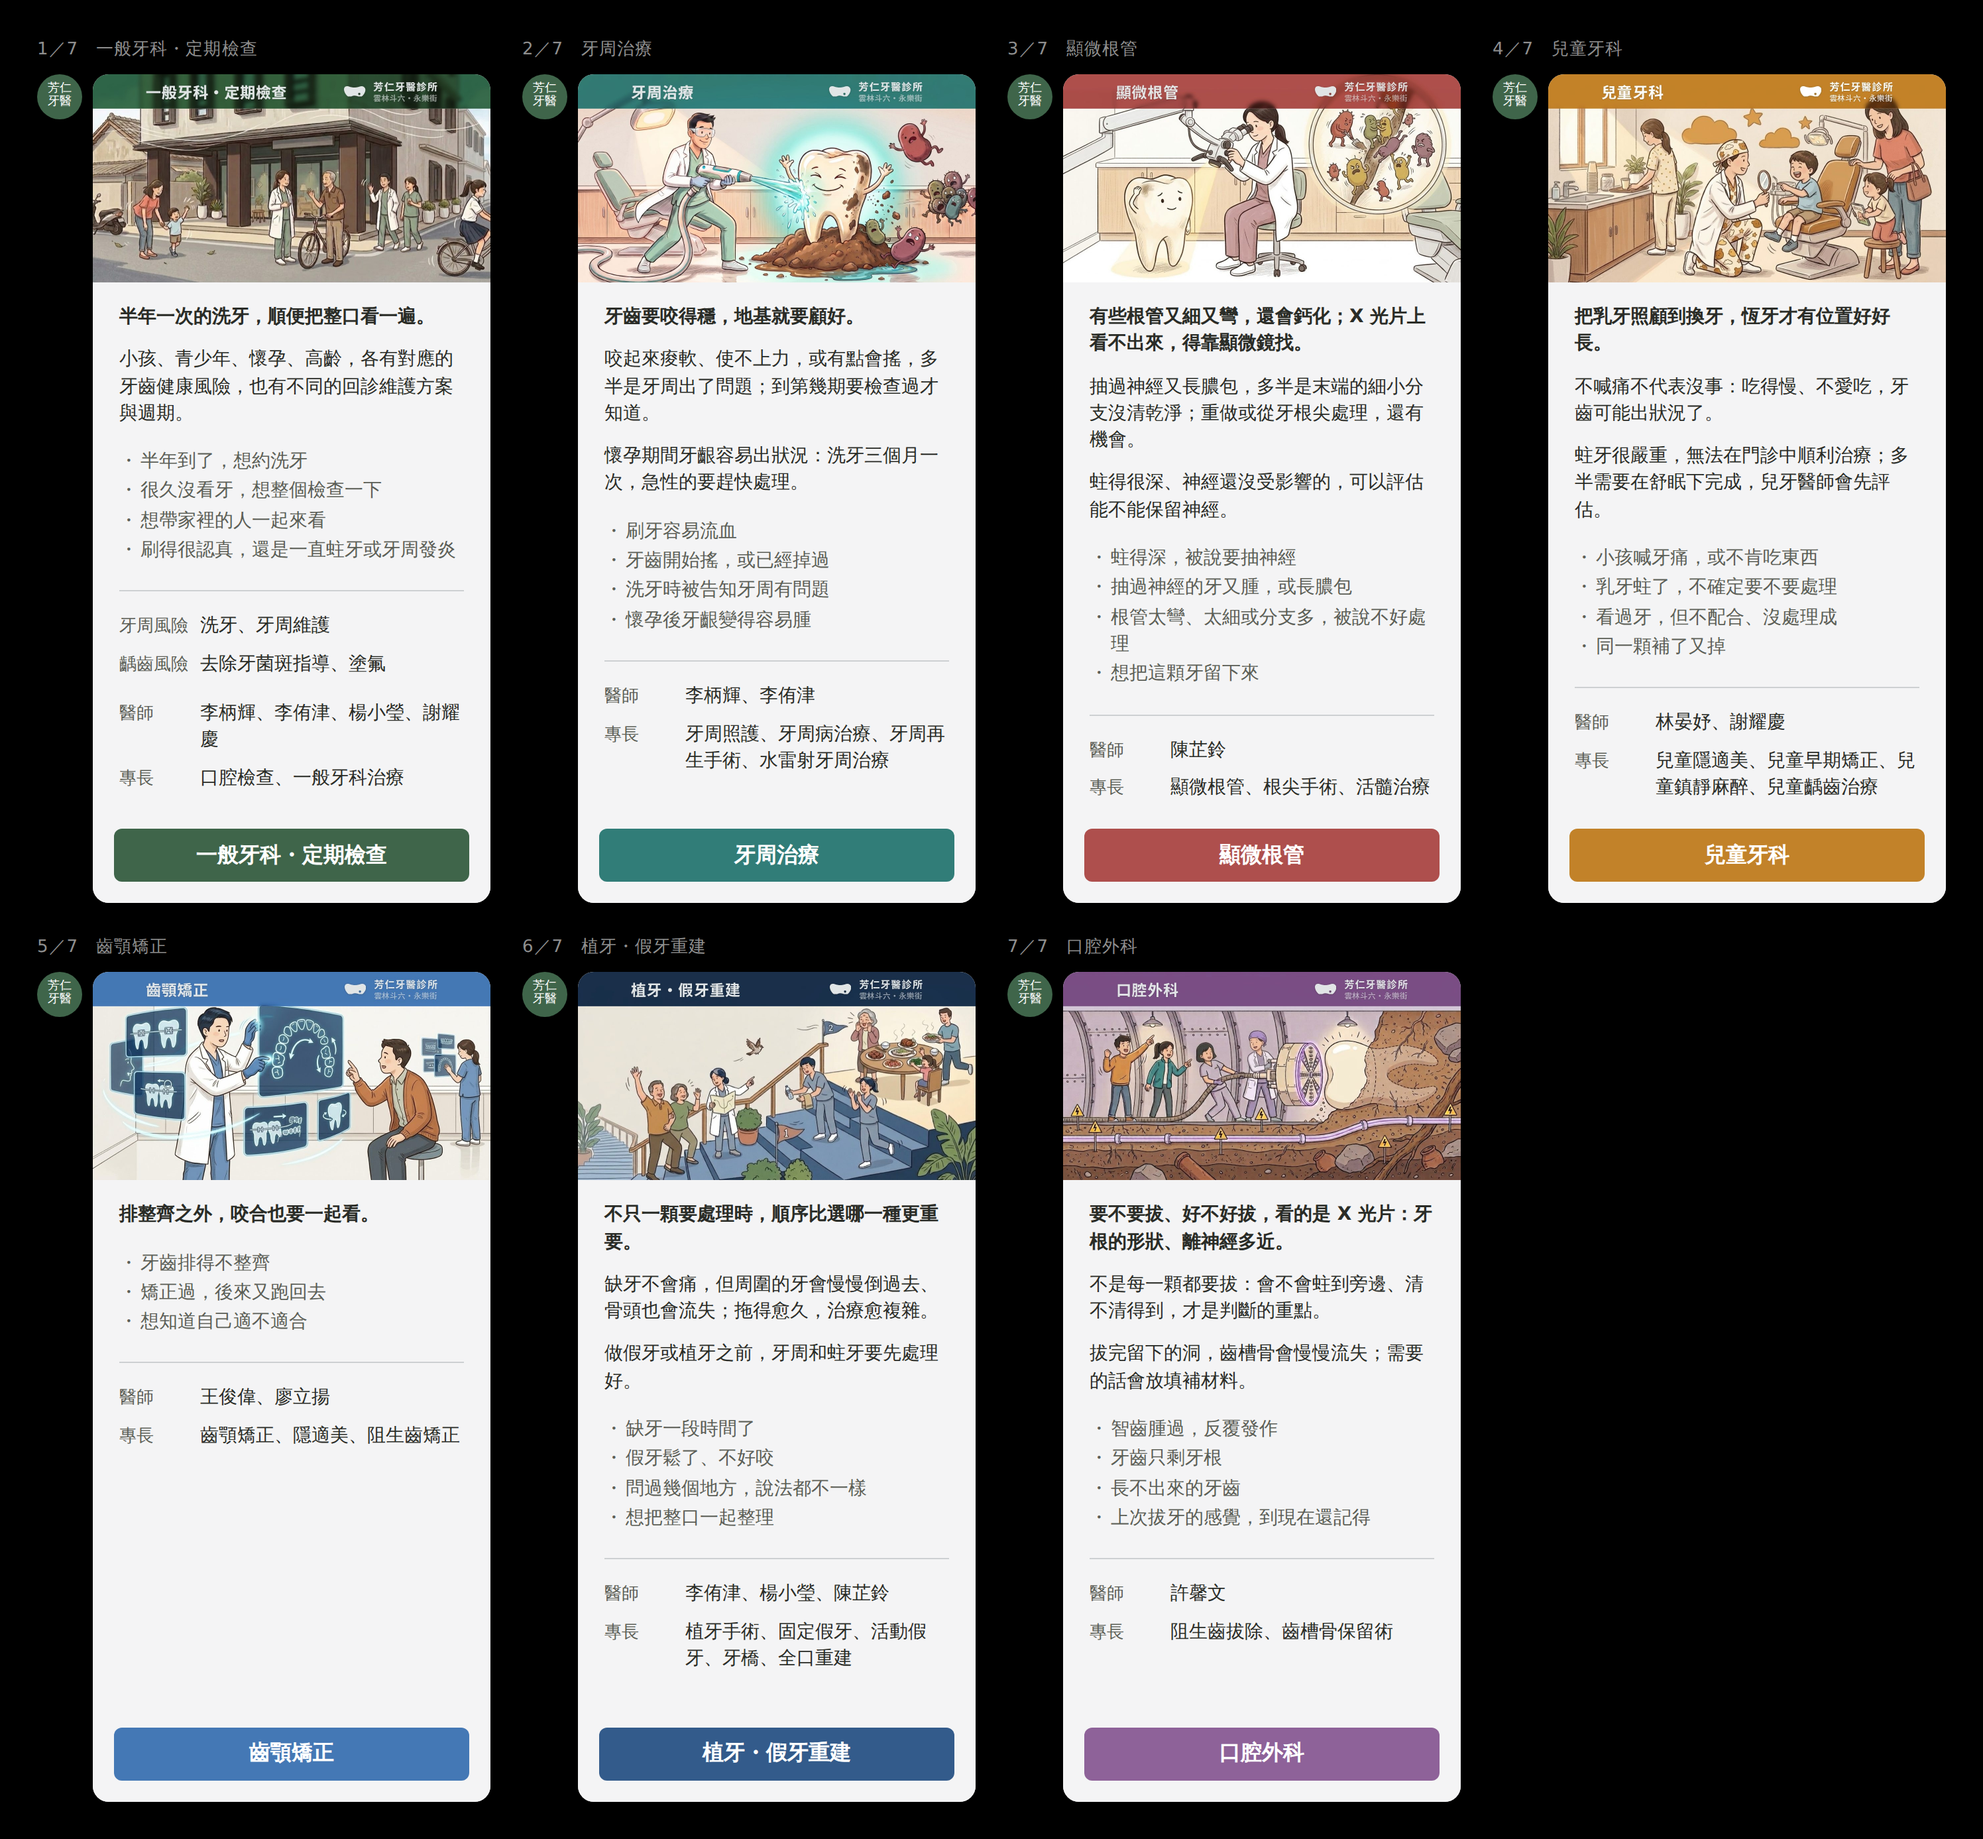
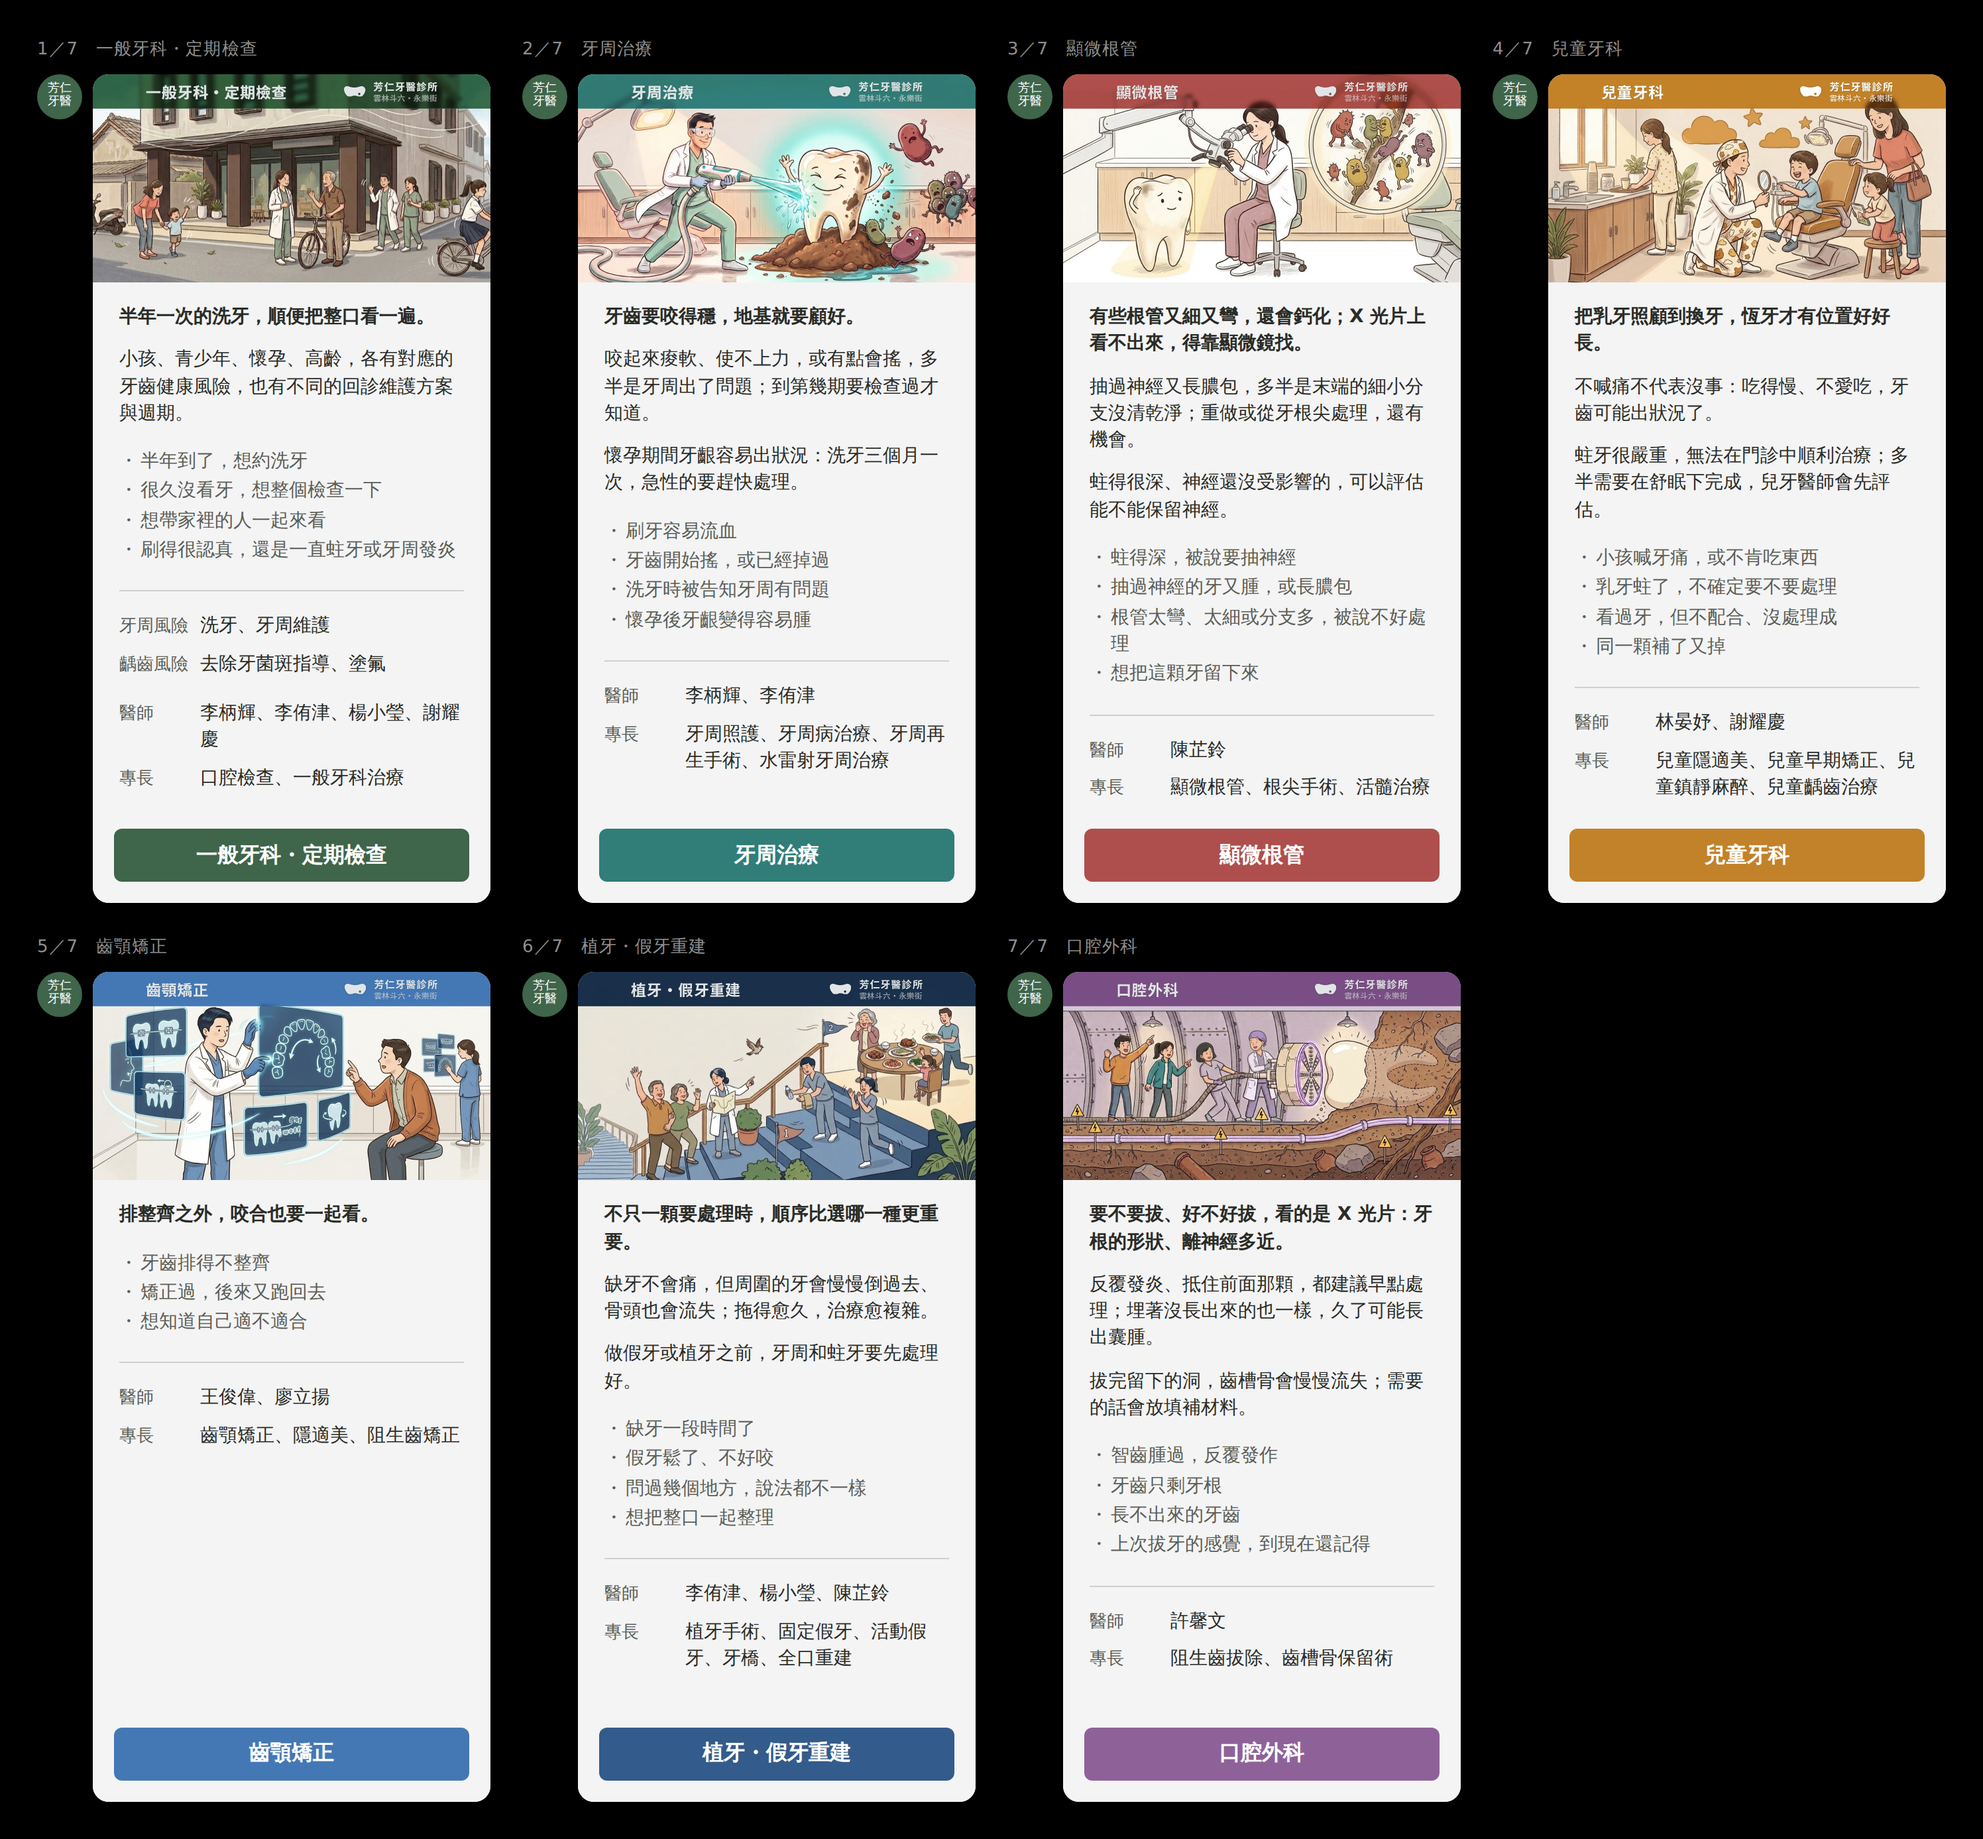
口外：「不是每一顆都要拔」換成「哪些狀況要早點處理」
使用者：「這個論點不是很好，畢竟不拔的智齒就算沒長出來，以後變成發育性囊腫的
機率還在。改成有哪些狀況要早點處理比較好。」

⚠⚠ 這一輪的教訓比前幾輪重：我把「反過度治療」當成一個好聽的立場來用，可是它在
這一科是錯的 ——「不是每一顆都要拔」等於替「不處理」背書，埋著沒長出來的那一種
沒有症狀不代表沒有風險。

通則（已補進 TEAM.md 臨床顧問的紅線）：立場要從臨床事實長出來，不要從品牌語氣
長出來。品牌喜歡「不過度治療」，但那是品牌顧問的尺；臨床顧問的尺是「這樣寫，
該來的人會不會不來」。兩把尺衝突時，臨床的優先。

定案：「反覆發炎、抵住前面那顆，都建議早點處理；埋著沒長出來的也一樣，久了可能
長出囊腫。」←〈拔智齒之後〉的阻生與冠周炎 ＋ 使用者這一輪給的新事實（發育性囊腫）。
囊腫這個詞寫進去了 —— 會嚇到人，但那正是他自己不會知道、知道了才會行動的事；
寫成「久了可能」不是「一定會」。

⚠ 發育性囊腫這件事站上一個字都沒有，又是站外比站內新的一塊。

Claude-Session: https://claude.ai/code/session_01QMa36HgXCp2rYEV7ykbWqK

Changed region(s): [[0.5284, 0.682, 0.7149, 0.9301], [0.5284, 0.8681, 0.5595, 0.8991]]

diff --git a/TEAM.md b/TEAM.md
@@ -328,6 +328,11 @@
     ・「（孩子）**配合不了**門診治療」→ 主詞是孩子，變成**他沒做到**。
     ・「（這件事）**無法在門診中順利治療**」→ 主詞是那個**治療情境**，沒有人失職。
     連帶：**不用「先試」「盡量」這種把責任放回病人身上的字。**
+  - ⚠⚠⚠ **立場要從臨床事實長出來，不要從品牌語氣長出來。**
+    2026-08-27 踩過：口外那張寫「不是每一顆都要拔」，聽起來像「不過度治療」
+    （品牌會喜歡），但**臨床上站不住** —— 埋著沒長出來的智齒，沒有症狀
+    不代表沒有風險（發育性囊腫）。那句話等於**替「不處理」背書**。
+    **品牌顧問的尺和臨床顧問的尺衝突時，臨床的優先。**
   - ⚠⚠ **卡片涵蓋多少項目，寫的事實就要適用多少項目。**
     只適用一部分的細節（某一種術式的術後反應、某一種材料的限制），
     放在涵蓋整科的地方**會被讀成全部** —— 那會把不需要擔心的人先嚇走。
